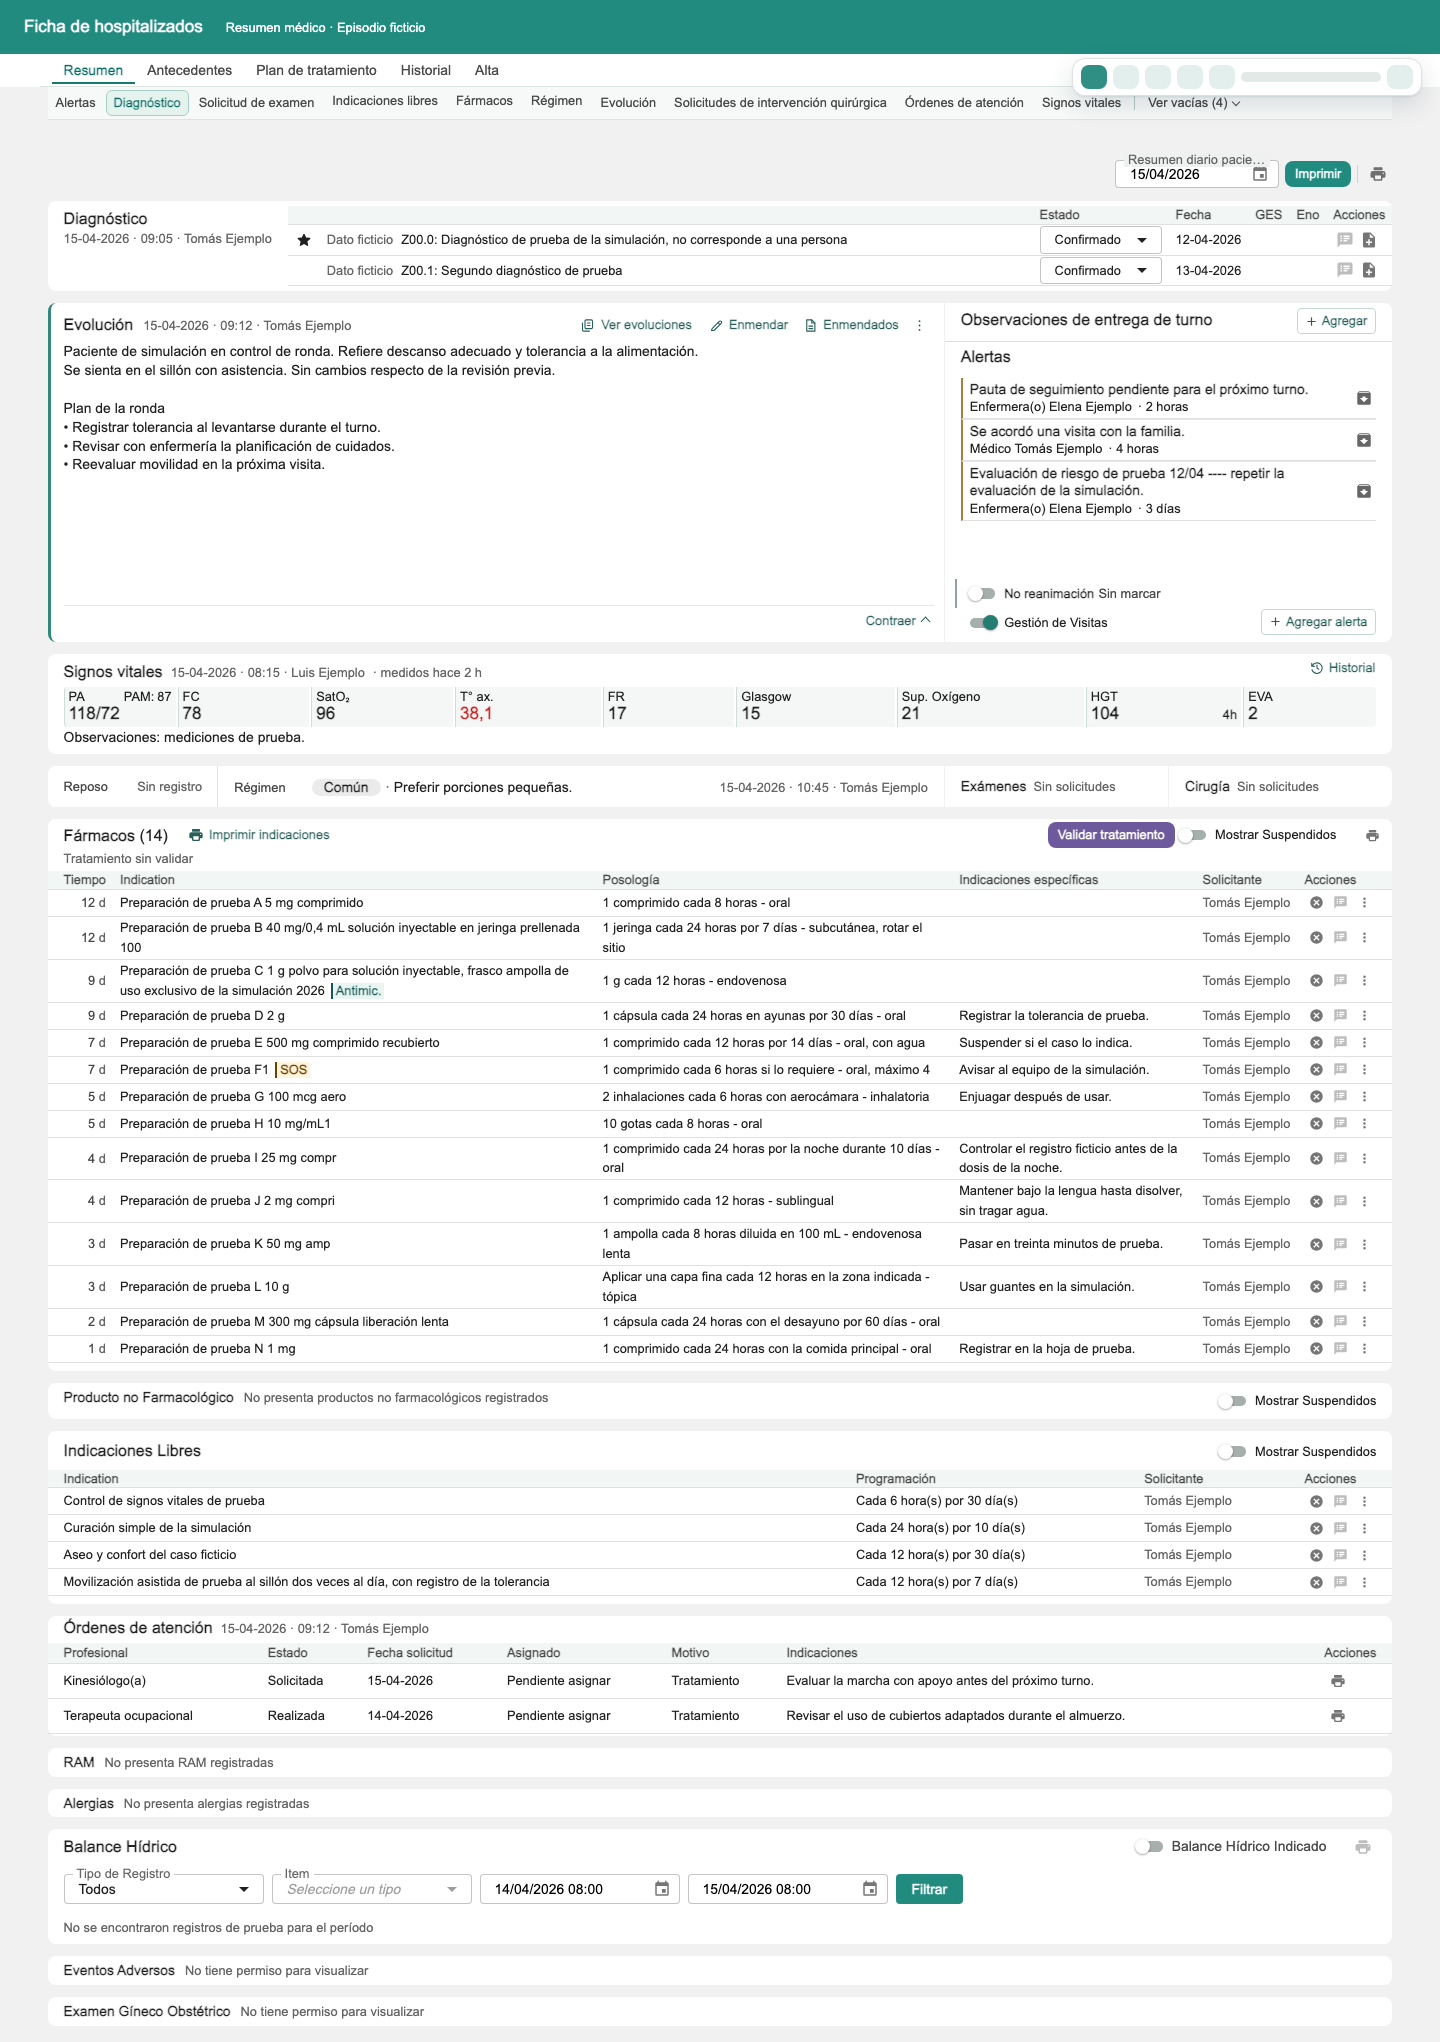
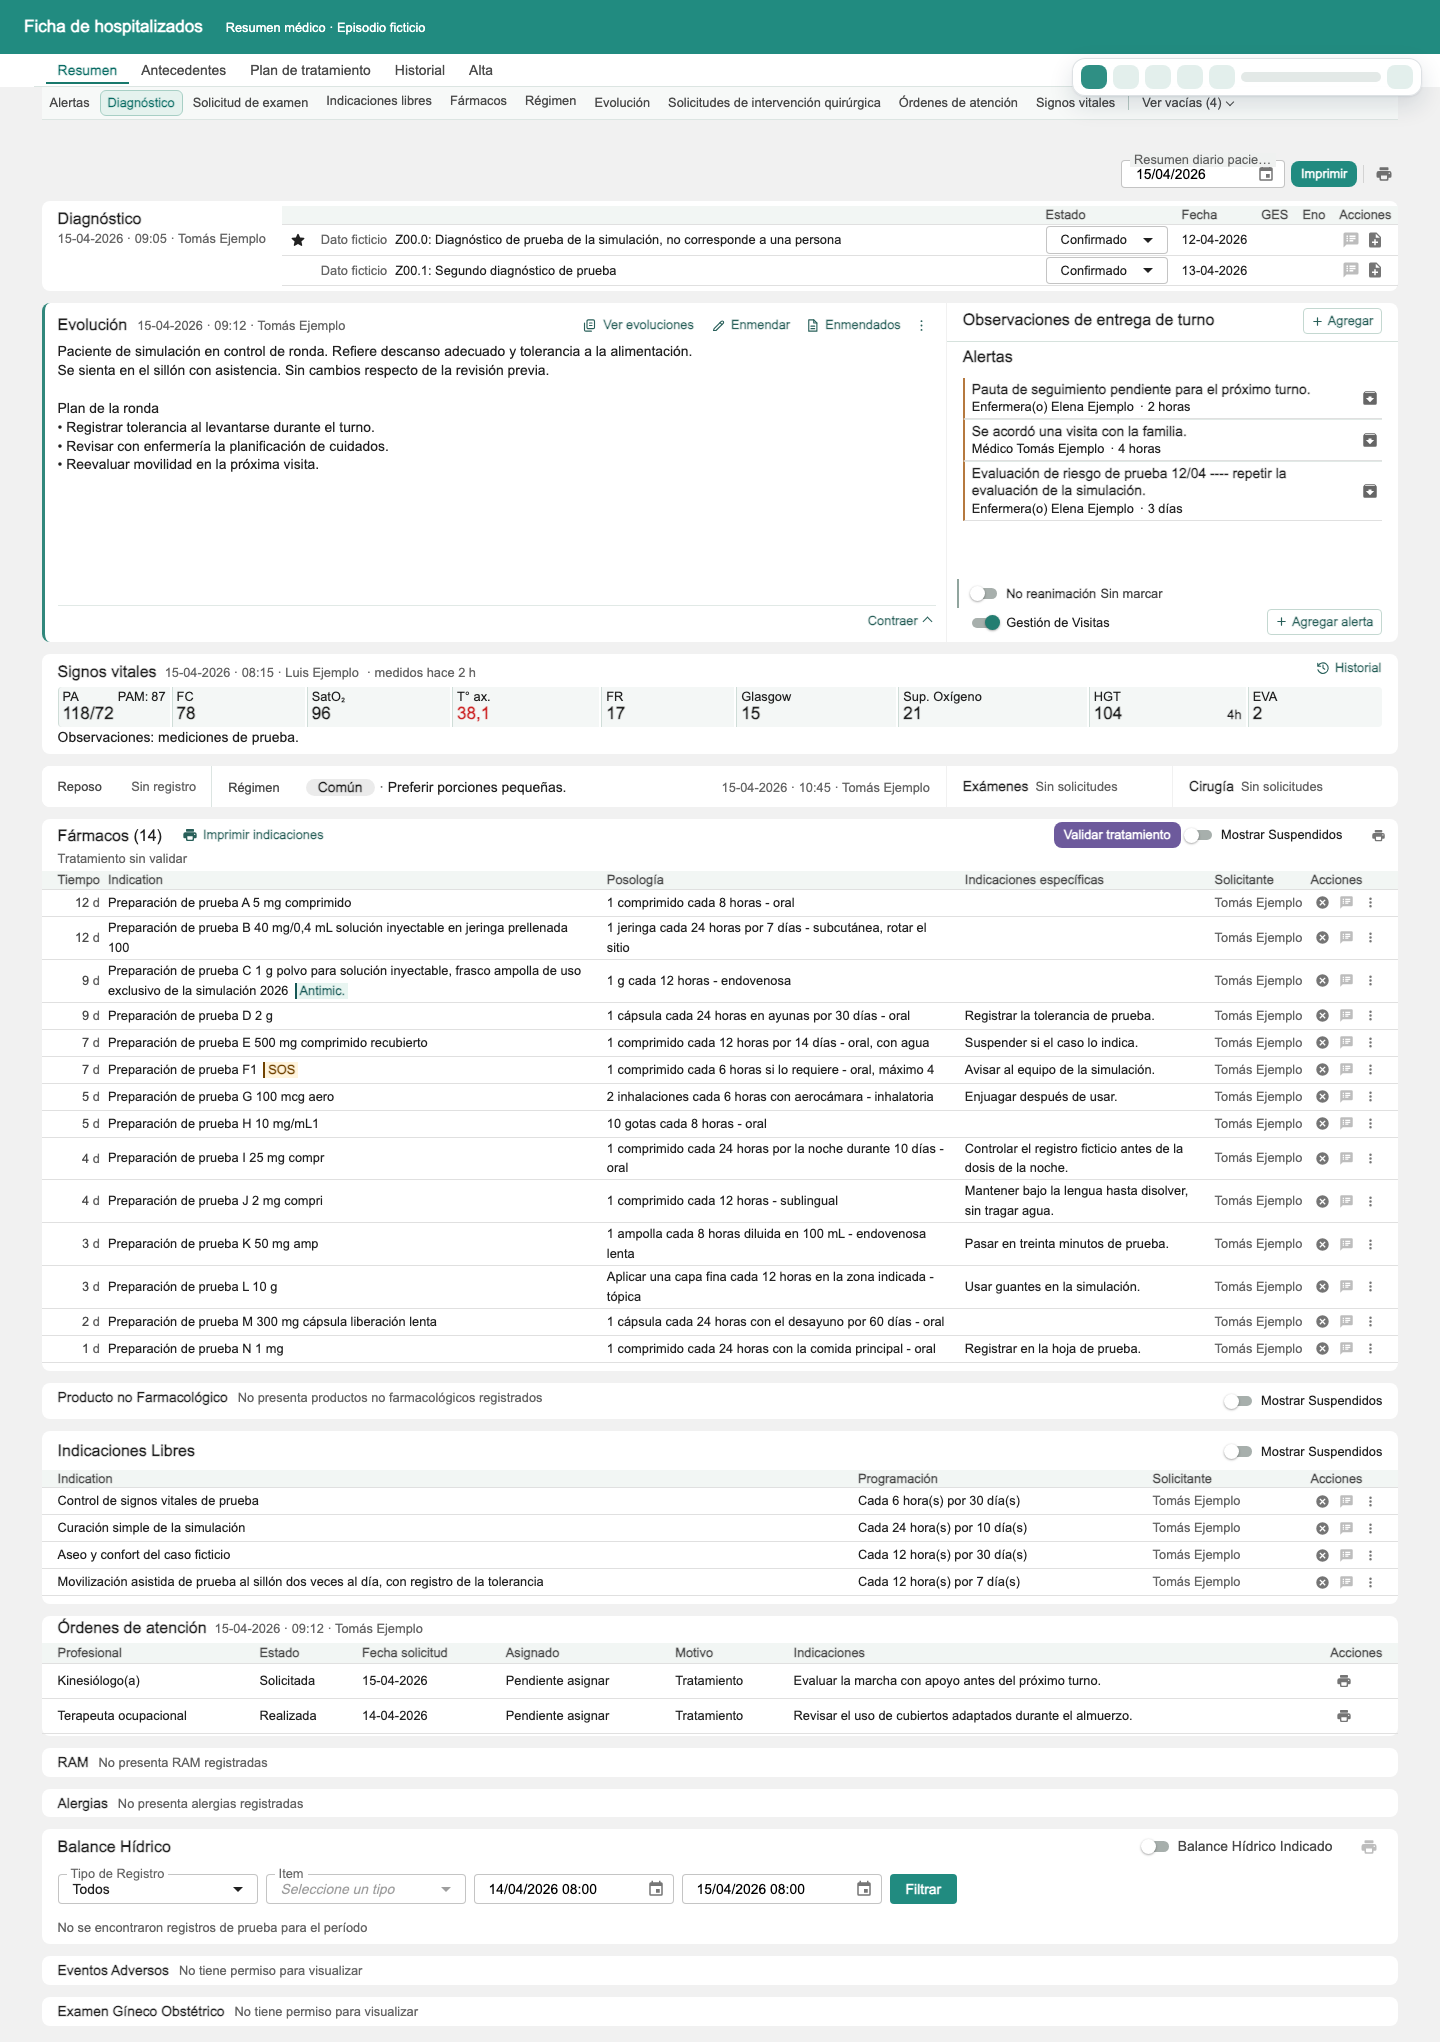
fix: keep the columns that are read as wide as before the reading edge grew
At 1280 px the tables had lost 24 px: 12 to a wider page margin and 12 to the
reading edge of their first and last cells, and two more prescriptions wrapped.
The page margin goes back to what it was, and the edge columns pay the reading
edge with the room they left before their neighbour.

diff --git a/extension/hhr-ficha-themes.css b/extension/hhr-ficha-themes.css
@@ -196,8 +196,10 @@
         :has(> [data-hhr-reading="order-validator"]:first-child + .MuiPaper-root:last-child > .MuiTableContainer-root:only-child > table)) {
       padding-inline:0 !important;
       > [data-hhr-reading="order-validator"] { padding-inline:var(--hhr-round-inset) !important; }
-      :is(th,td):first-child:not(:is(dialog,[role=dialog],td) *) { padding-inline-start:var(--hhr-round-inset) !important; }
-      :is(th,td):last-child:not(:is(dialog,[role=dialog],td) *) { padding-inline-end:var(--hhr-round-inset) !important; }
+      /* The reading edge is paid by the room between an edge column and its neighbour, which keeps its own
+         7 px: the columns that are read keep the width they had with a narrower edge. */
+      :is(th,td):first-child:not(:is(dialog,[role=dialog],td) *) { padding-inline:var(--hhr-round-inset) 1px !important; }
+      :is(th,td):last-child:not(:is(dialog,[role=dialog],td) *) { padding-inline:1px var(--hhr-round-inset) !important; }
     }
     /* Balance Hídrico: its filter at the height of a line, like the daily form. Each field keeps its
        label, its menu and its calendar; the switch and the print icon keep their place. */

diff --git a/extension/hhr-ficha-tokens.css b/extension/hhr-ficha-tokens.css
@@ -37,10 +37,10 @@ html[data-hhr-ficha-theme] {
   --hhr-ficha-block-gap:12px;
   /* The room a card leaves above its heading and below its last line. */
   --hhr-ficha-card-pad:8px;
-  /* The page: never less than 40 px at each side, Eloísa's 32 and a little air, and more as the window
-     grows (41 px at 1280, 48 at 1440, 67 at 1920). On a wide screen the content stops at a readable
-     width and stays at the centre. A laptop keeps its width for the clinical text. */
-  --hhr-ficha-page-margin:clamp(40px, 4vw - 10px, 72px);
+  /* The page: never less than Eloísa's 32 px at each side, a little more as the window grows (35 px at
+     1280, 42 at 1440, 56 from 1800), and on a wide screen the content stops at a readable width and
+     stays at the centre. A laptop keeps its width for the clinical text. */
+  --hhr-ficha-page-margin:clamp(32px, 4vw - 16px, 56px);
   --hhr-ficha-page-max:1600px;
   --hhr-ficha-control:28px;
   /* The lines of the note that the desktop round shows at once, for every patient. */

diff --git a/docs/estilo-ficha.md b/docs/estilo-ficha.md
@@ -9,8 +9,8 @@ Esta guía reúne las reglas con las que se rediseñaron el Resumen compacto, el
 3. **Cada dato se dice una vez.** Antes de añadir un rótulo, comprobar si la pantalla ya lo dice a un renglón de distancia.
 4. **El color tiene función.** Verde para lo que se puede pulsar, ámbar para una marca clínica, y el color que da Eloísa para un valor fuera de rango. El texto usa las tintas neutras de Eloísa (negro al 87, 71 y 60 %): un nombre en gris no debe parecer un enlace.
 5. **Una tipografía, cuatro tamaños y dos pesos.** La de Eloísa (Inter), para que una tarjeta no mezcle dos. Meta (12 px), lectura (13 px), título (15 px) y valor destacado (16 px); normal y 600. Cada tarjeta se titula a 15 px.
-6. **Un margen de lectura.** El título de una tarjeta, sus columnas y su primera celda empiezan en la misma línea, a 16 px del borde de la tarjeta (`--hhr-ficha-inset`). Ningún texto toca el borde de su cuadro.
-7. **Los bordes de la página.** El contenido deja el mismo margen a cada lado, nunca menor que 40 px, y crece con la ventana (`--hhr-ficha-page-margin`); en una pantalla ancha el contenido se detiene en 1600 px y queda centrado (`--hhr-ficha-page-max`). Pestañas, línea de secciones y tarjetas comparten ese borde. Ninguna vista lo estrecha ni lo ensancha de un solo lado.
+6. **Un margen de lectura.** El título de una tarjeta, sus columnas y su primera celda empiezan en la misma línea, a 16 px del borde de la tarjeta (`--hhr-ficha-inset`). Ningún texto toca el borde de su cuadro. En una tabla ese margen lo ceden las columnas de los extremos, del lado de su vecina: las columnas que se leen conservan su ancho.
+7. **Los bordes de la página.** El contenido deja el mismo margen a cada lado, nunca menor que los 32 px de Eloísa, y crece con la ventana (`--hhr-ficha-page-margin`); en una pantalla ancha el contenido se detiene en 1600 px y queda centrado (`--hhr-ficha-page-max`). Pestañas, línea de secciones y tarjetas comparten ese borde. Ninguna vista lo estrecha ni lo ensancha de un solo lado.
 8. **Una separación y una superficie.** Entre dos bloques, 12 px (`--hhr-ficha-block-gap`). Cada tarjeta es la superficie blanca de Eloísa, sin sombra, con las esquinas de la vista (`--hhr-ficha-radius`).
 9. **Una acción es un icono y su nombre, y el nombre es el de Eloísa.** Se lee del botón o de su icono; la extensión no inventa uno. Sin sitio para el nombre queda el icono, con el nombre al pasar el cursor. Un icono cuyo significado no consta, como los estados del Plan de tratamiento, conserva su dibujo y su color.
 10. **Lo que no se reconoce no se toca.** Una tarjeta, fila o botón con una forma distinta de la prevista conserva el aspecto de Eloísa.

diff --git a/CHANGELOG.md b/CHANGELOG.md
@@ -4,7 +4,7 @@
 
 - En el Resumen de la vista Compacta, en escritorio, cada bloque tiene su lugar: Diagnóstico abre la ficha; después Evolución, con Observaciones de entrega y Alertas a su lado; luego Signos vitales a todo el ancho; y una línea con Reposo, Régimen y las solicitudes de examen y cirugía sin registros. Hasta ahora Diagnóstico y Fármacos empezaban hasta 100 px más arriba o más abajo según el largo de la nota y el número de alertas.
 - Evolución muestra siempre catorce líneas, en lugar de entre nueve y doce según el alto de la ventana. Una nota corta deja espacio y una larga se desplaza dentro de su cuadro. Observaciones de entrega y Alertas terminan en la misma línea que la nota, y la lista de alertas se desplaza dentro de su cuadro, con los interruptores a la vista.
-- La vista respira más. Ningún texto toca el borde de su cuadro: el margen de lectura dentro de cada tarjeta pasa de 10 a 16 px. Entre dos bloques hay 12 px en lugar de 8, las esquinas miden 8 px y el margen de la página nunca baja de 40 px.
+- La vista respira más. Ningún texto toca el borde de su cuadro: el margen de lectura dentro de cada tarjeta pasa de 10 a 16 px. Entre dos bloques hay 12 px en lugar de 8 y las esquinas miden 8 px. Las tablas conservan el ancho de sus columnas de lectura: caben en una línea las mismas indicaciones que antes.
 - Reposo, Régimen y las solicitudes sin registros se leen a la altura del centro de su línea, aunque uno ocupe más alto que el otro.
 - Fármacos empieza más abajo: en una ventana de 800 px de alto queda bajo la primera pantalla, que ahora es la ronda completa hasta Signos vitales.
 

diff --git a/docs/visual/resumen-escritorio/README.md b/docs/visual/resumen-escritorio/README.md
@@ -19,7 +19,7 @@ El responsable pidió un orden de lectura: Diagnóstico primero, Evolución de t
 | Inicio de Fármacos, con la ficha liviana y con la cargada | 621 y 700 → 819 y 819 px |
 | Margen de lectura dentro de una tarjeta | 10 → 16 px |
 | Separación entre dos bloques | 8 → 12 px |
-| Margen de la página | 42 → 48 px |
+| Indicaciones de Fármacos en una línea, a 1280 y a 1440 | 7 y 8 → 7 y 8 |
 | Esquinas de una tarjeta | 6 → 8 px |
 
 La primera pantalla es ahora la ronda: por qué está el paciente, la nota con lo que la acompaña y los signos. El costo es Fármacos, que empieza 119 px más abajo que en la ficha cargada de antes y sale de la primera pantalla a 800 px de alto. Las capturas de la primera pantalla se toman ahora desde el inicio de la página: la ficha ficticia, como Eloísa, da el foco al campo de alerta al cargar y la dejaba desplazada.
